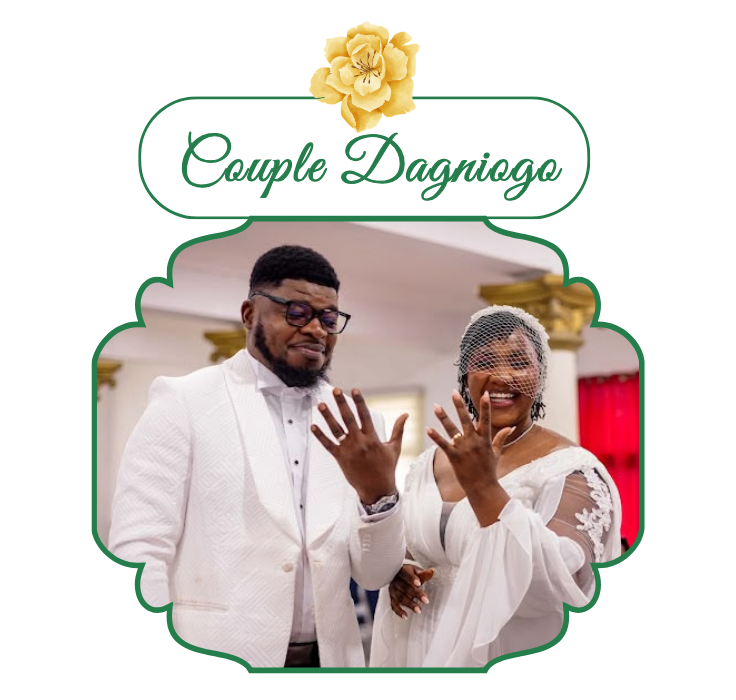
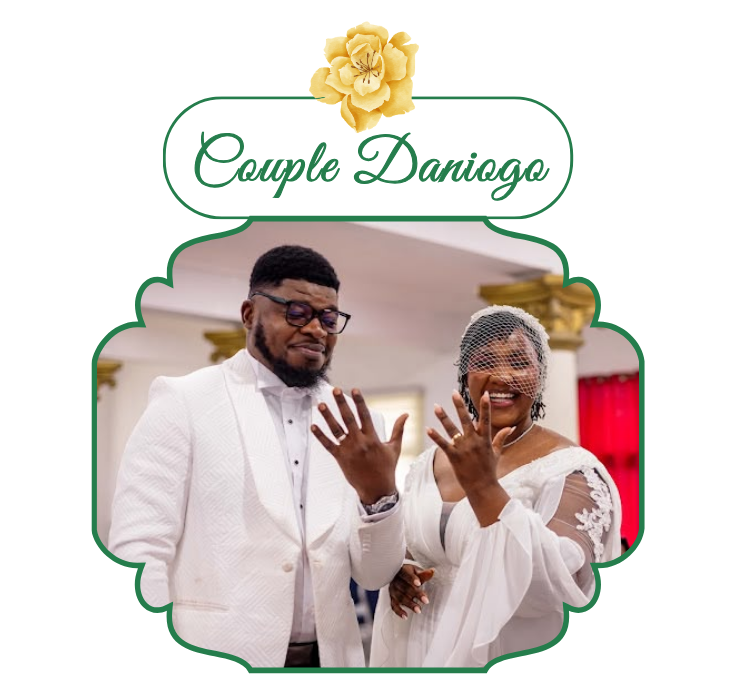
Name correction

diff --git a/src/components/IntroEnvelope.vue b/src/components/IntroEnvelope.vue
@@ -23,7 +23,7 @@
     <div class="content" ref="content">
 
       <div class="inviteLine">
-        INVITATION AU <br> MARIAGE DE
+        INVITATION AU <br> COCKTAIL DE MARIAGE DE
       </div>
 
       <!-- NOMS (police style carte) -->
